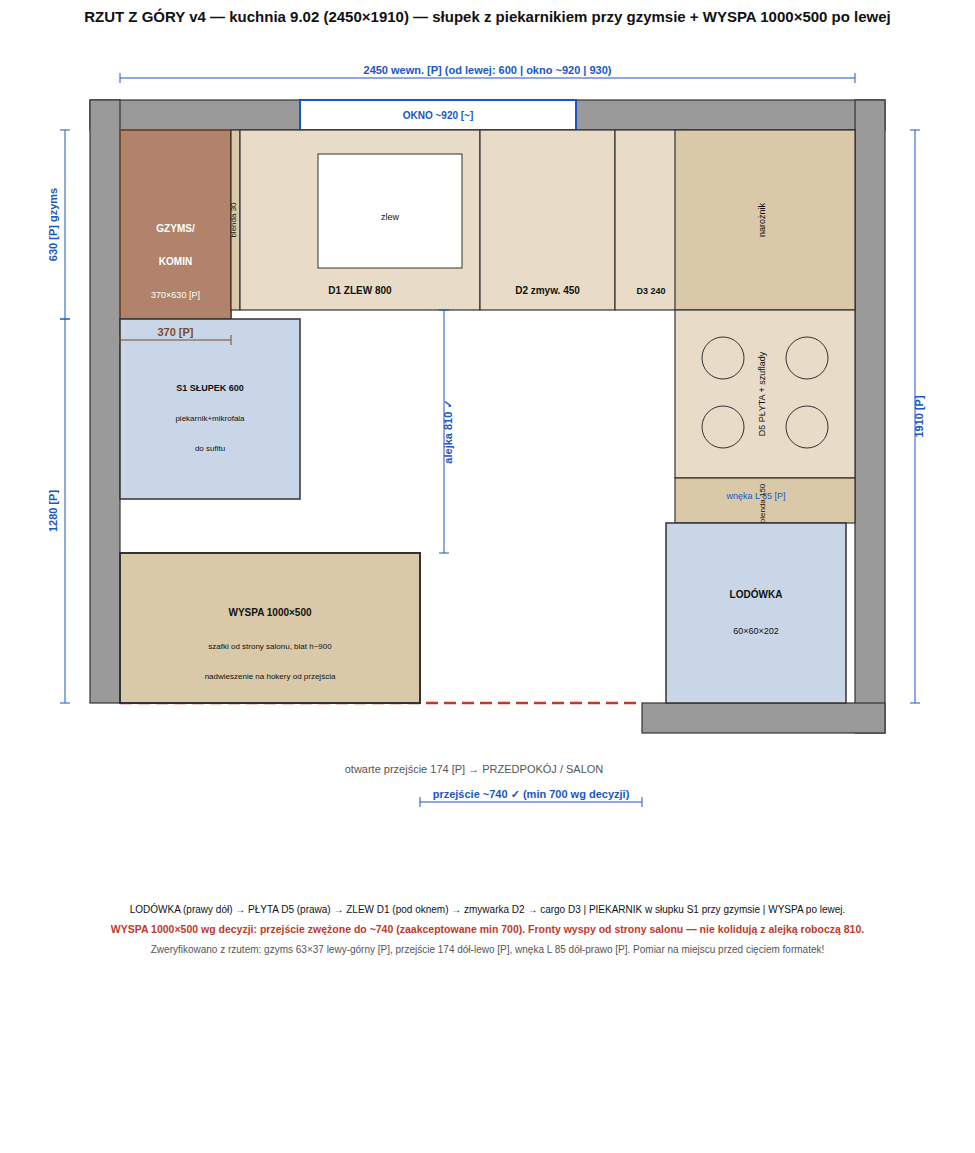
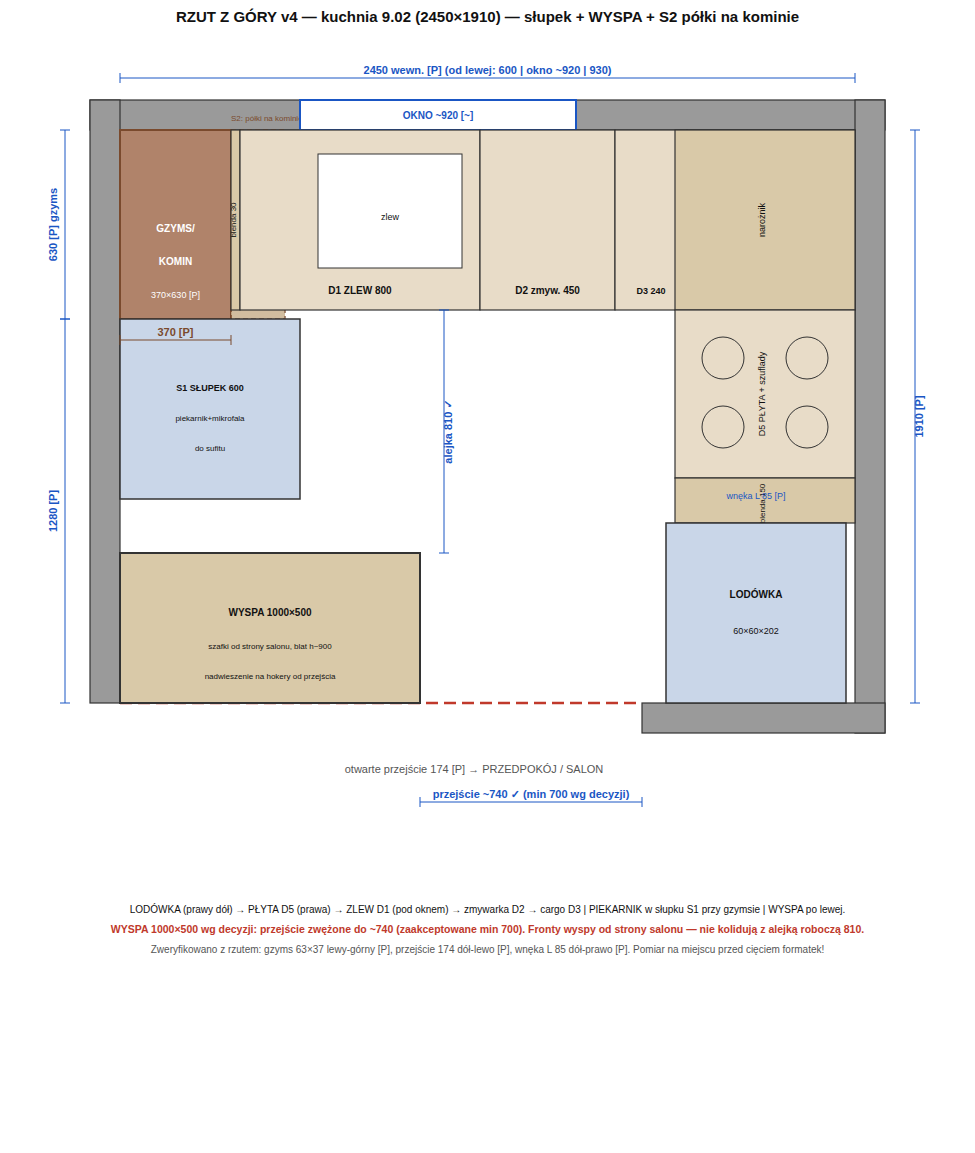
Kuchnia 9.02: modul S2 - plytka zabudowa na kominie
- S2 630x180, od 1490 do sufitu na licu gzymsu, fronty H3734 (jednolita
  ciemna wieza z S1)
- mocowanie: kotwy plytkie 40-50 mm bez udaru + bok-podpora oparty na
  blacie D1 (ciezar na blat, kotwy stabilizuja); zakaz glebokiego wiercenia
  utrzymany (kanaly wentylacyjne traktowane jako czynne)
- zaktualizowane rysunki: rzut + elewacja D
- PLAN.md: rozpiska sciany D, kolejnosc, tabela modulow

Claude-Session: https://claude.ai/code/session_01MkFeBLVTanFFgRN4fNP57w

Changed region(s): [[0.0923, 0.0, 0.9231, 0.0312], [0.2462, 0.2498, 0.3077, 0.281]]

diff --git a/projects/kuchnia-9.02/technical/gen.py b/projects/kuchnia-9.02/technical/gen.py
@@ -47,7 +47,7 @@ ox, oy = M + px(T), 100 + px(T)
 def X(mm): return ox + px(mm)
 def Y(mm): return oy + px(mm)
 
-e = [svg_open(W, H, "RZUT Z GÓRY v4 — kuchnia 9.02 (2450×1910) — słupek z piekarnikiem przy gzymsie + WYSPA 1000×500 po lewej")]
+e = [svg_open(W, H, "RZUT Z GÓRY v4 — kuchnia 9.02 (2450×1910) — słupek + WYSPA + S2 półki na kominie")]
 # walls
 e.append(rect(ox-px(T), oy-px(T), px(RW)+2*px(T), px(T), WALL))                  # top wall A (okno)
 e.append(rect(ox-px(T), oy-px(T), px(T), px(RD)+px(T), WALL))                    # left wall D
@@ -58,6 +58,10 @@ e.append(rect(X(0), Y(0), px(370), px(630), GZ, "#7a4a2d", 2))
 e.append(txt(X(185), Y(340), "GZYMS/", 10, fill="#fff", bold=True))
 e.append(txt(X(185), Y(450), "KOMIN", 10, fill="#fff", bold=True))
 e.append(txt(X(185), Y(560), "370×630 [P]", 9, fill="#fff"))
+# S2: płytka zabudowa na licu komina (nad blatem, 1490-2490) — przerywana bo powyżej blatu
+e.append(rect(X(370), Y(0), px(180), px(630), "#c9b28f", "#7a4a2d", 1.5, dash="5 3", opacity=0.85))
+e.append(txt(X(460), Y(315), "S2 180 gł.", 8, rot=-90))
+e.append(txt(X(370), Y(-30), "S2: półki na kominie nad blatem (1490→sufit), kotwy płytkie 40-50 + bok na blacie", 8, anchor="start", fill="#7a4a2d"))
 # window in top wall (600..1520 od lewej ściany)
 e.append(rect(X(600), oy-px(T), px(920), px(T), "#ffffff", "#1a56c4", 2))
 e.append(txt(X(1060), oy-px(T)+19, "OKNO ~920 [~]", 10, fill="#1a56c4", bold=True))
@@ -233,11 +237,18 @@ def XD(mm): return ox4 + px(mm)
 def YD(mm): return oy4 + px(EH4 - mm)
 
 # patrząc NA lewą ścianę: okno po PRAWEJ, przejście do salonu po LEWEJ
-e = [svg_open(W4, H4, "ELEWACJA D — ściana LEWA: gzyms + słupek z piekarnikiem + wyspa (1910×2490)")]
+e = [svg_open(W4, H4, "ELEWACJA D — ściana LEWA: gzyms z zabudową S2 + słupek S1 + wyspa (1910×2490)")]
 e.append(rect(ox4, oy4, px(EW4), px(EH4), "#f7f4ee", "#333", 2))
 # gzyms przy narożniku z oknem (prawa strona elewacji): 630 szer., pełna wysokość
 e.append(rect(XD(1280), YD(2490), px(630), px(2490), GZ, "#7a4a2d", 1.5))
 e.append(txt(XD(1595), YD(1300), "GZYMS/KOMIN 630 [P] — pełna wysokość [potwierdzić]", 9, fill="#fff", rot=-90))
+# S2: płytka zabudowa na licu komina
+e.append(rect(XD(1290), YD(2490), px(610), px(1000), CAB, "#333", 1.5))
+e.append(txt(XD(1595), YD(2060), "S2 630×180 gł.", 9.5, bold=True))
+e.append(txt(XD(1595), YD(1940), "półki/fronty H3734, do sufitu", 8))
+e.append(txt(XD(1595), YD(1820), "kotwy 40-50 bez udaru", 8, fill=WARN))
+e.append(rect(XD(1880), YD(1490), px(20), px(630), CAB2, "#333", 1))
+e.append(txt(XD(1930), YD(1150), "bok-podpora oparty na blacie D1 (przenosi ciężar)", 7.5, fill="#555", rot=-90))
 # S1 słupek 600 przy gzymsie, do sufitu
 e.append(rect(XD(680), YD(2490), px(600), px(2390), AGD, "#333", 1.5))
 e.append(txt(XD(980), YD(2380), "S1 SŁUPEK 600 do sufitu", 9.5, bold=True))

diff --git a/projects/kuchnia-9.02/PLAN.md b/projects/kuchnia-9.02/PLAN.md
@@ -62,7 +62,8 @@ Zlew pod oknem, przy podejściach wody. Kolejność: `technical/02-elewacja-A-ok
 **Ściana B (1910), od narożnika z A:** `martwe pole narożne 560 (dostęp z D4) | D5 płyta indukcyjna + szuflady 600 | blenda 150 (bok termoizolacyjny) | LODÓWKA we wnęce 850 (+nadstawka ~400 do sufitu)`
 `technical/03-elewacja-B-plyta-lodowka.png`.
 
-**Ściana D (lewa):** `GZYMS (od okna 630) | S1 słupek 600 do sufitu: szafka góra / MIKROFALA (otwór 400) / PIEKARNIK (otwór 600) / szuflady dół`
+**Ściana D (lewa):** `GZYMS (od okna 630, z zabudową S2) | S1 słupek 600 do sufitu: szafka góra / MIKROFALA (otwór 400) / PIEKARNIK (otwór 600) / szuflady dół`
+**S2 — zabudowa na kominie:** 630×180 gł., od 1490 do sufitu, na licu gzymsu (fronty H3734 jak S1 — jednolita ciemna wieża). **Mocowanie:** kotwy płytkie 40–50 mm bez udaru (ścianka przewodu min ~65–120 mm — brak ryzyka przebicia), kołki do cegły pełnej, w cegłę nie w spoinę + **bok-podpora oparty na blacie D1** przenoszący ciężar (kotwy tylko stabilizują). Lekkie obciążenie (przyprawy, słoiki). Komin: spalinowe nieużywane (całe ogrzewanie w budynku elektryczne — deklaracja inwestora), kanały wentylacyjne traktować jako czynne — stąd zakaz głębokiego wiercenia.
 **WYSPA 1000×500**, blat h ~900, luz od S1 ~120–180; szafki wyspy otwierane **od strony salonu**, nadwieszenie blatu na hokery od strony przejścia. `technical/04-elewacja-D-slupek-wyspa.png`.
 
 **Górne:** G2 890 (prawa strona okna, do sufitu) + półka otwarta ~180–200 między gzymsem a oknem; G4 — opcjonalnie nad D5 wg trasy okapu. LED 3000K pod górnymi.
@@ -71,7 +72,7 @@ Zlew pod oknem, przy podejściach wody. Kolejność: `technical/02-elewacja-A-ok
 
 - A (od lewej): D1 → D2 → D3 → D4
 - B (od góry): D4/narożnik → D5 → blenda → lodówka
-- D (od okna): gzyms → S1 → (luz) → wyspa
+- D (od okna): gzyms (S2 nad blatem) → S1 → (luz) → wyspa
 - Górne: półka → okno → G2
 
 ## 8. Orientacyjne szerokości modułów
@@ -84,6 +85,7 @@ Zlew pod oknem, przy podejściach wody. Kolejność: `technical/02-elewacja-A-ok
 | D4 | narożna ślepa | 560 (front ~450) | półki / carousel | blat w narożnik |
 | D5 | płyta | 600×720+100×580 | 2 szuflady pod płytą | indukcja 4-pol. (otwór 560×490) |
 | S1 | słupek AGD | 600×~2390×580 | mikrofala 400 + piekarnik 600 + szuflady | przy gzymsie, do sufitu |
+| S2 | zabudowa na kominie | 630×~1000×180 | płytkie półki | kotwy 40–50 bez udaru + bok na blacie D1 |
 | WYSPA | korpusy 2×500 | 1000×~860+blat×500 | półki/szuflady od salonu | blat ~900, nadwieszenie 200–250 |
 | G2 | górna | 890×~1000×320 | półki | do sufitu |
 | Nadstawka L | nad lodówką | ~590×~400×580 | otwarta/front | kratka wentylacyjna |
